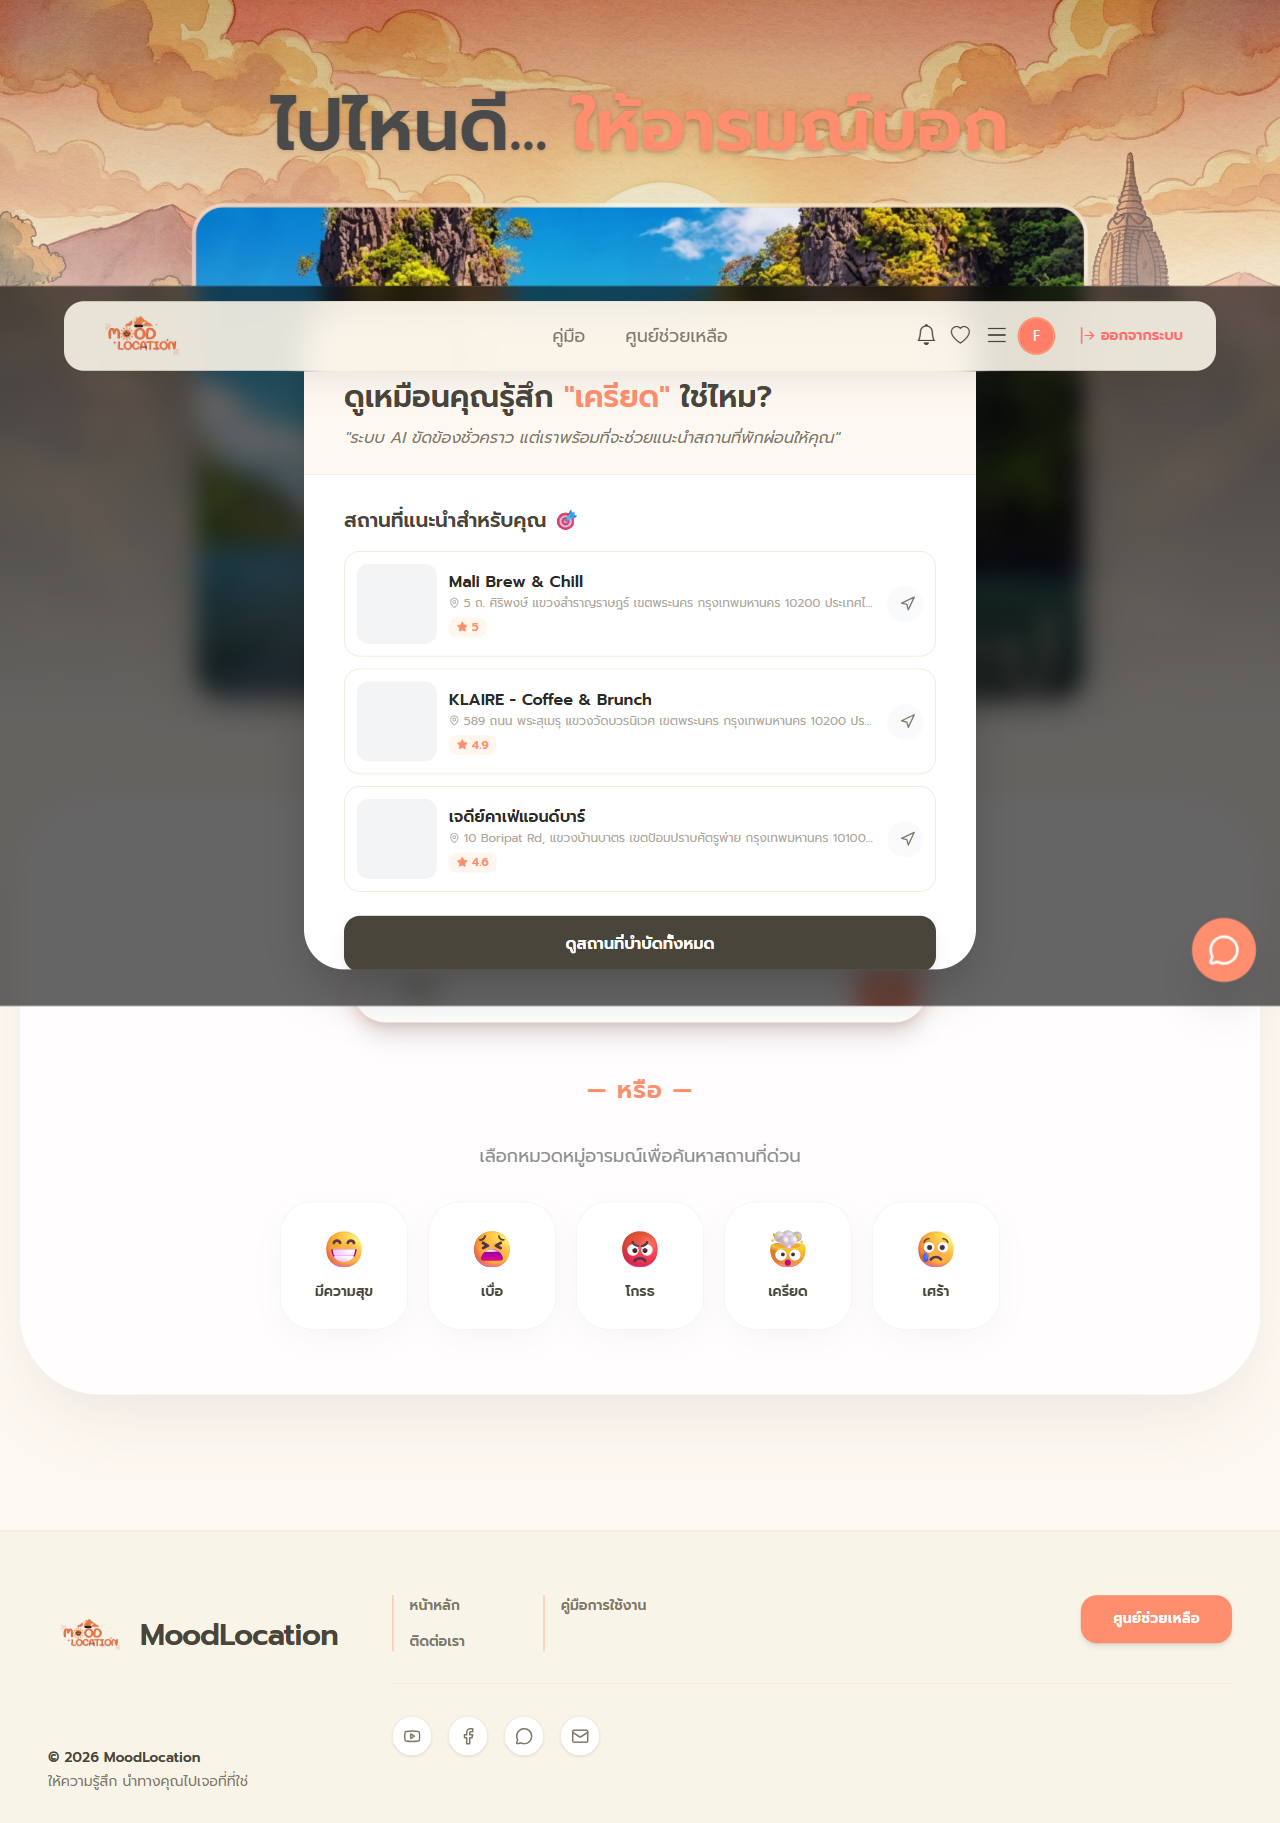
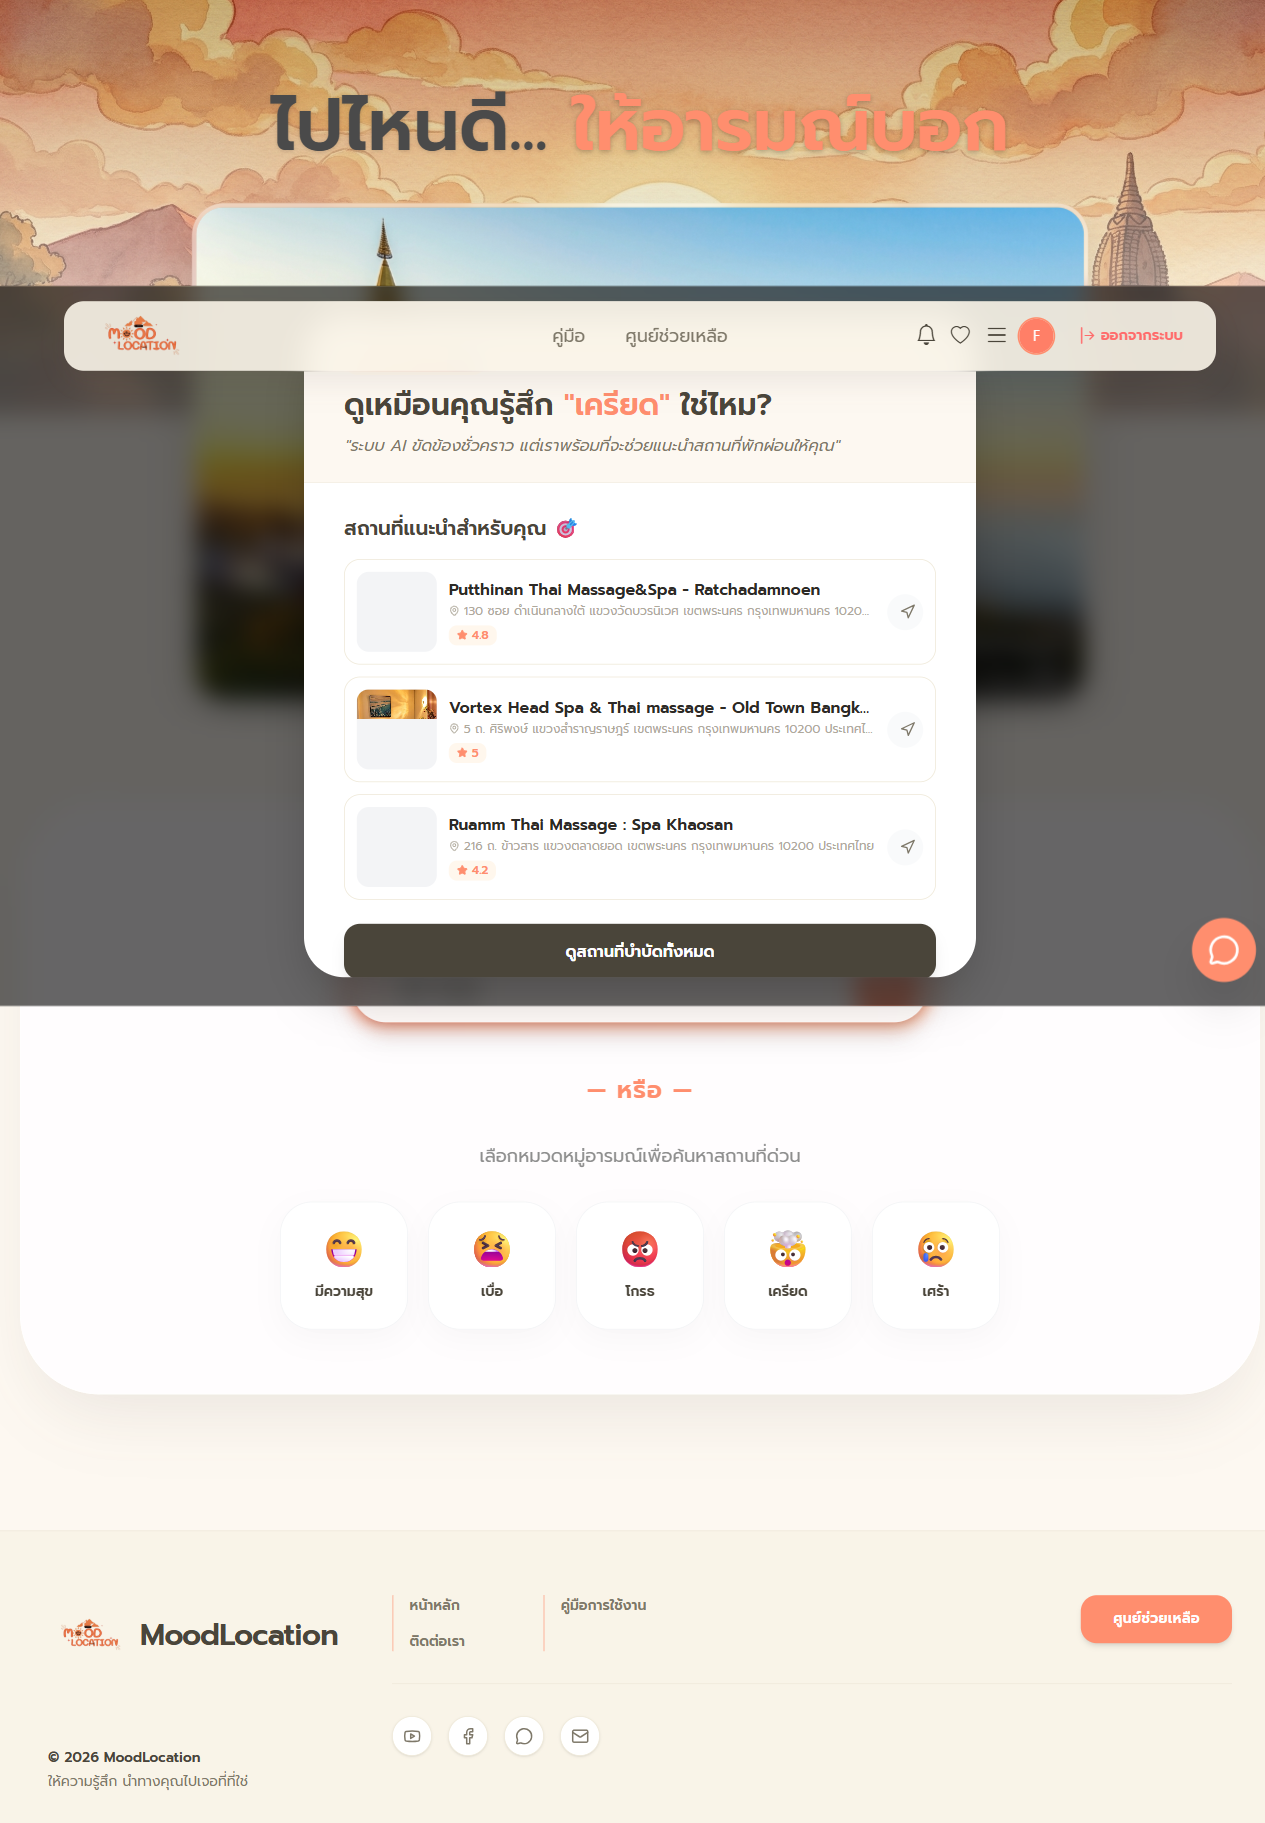
test401-406

diff --git a/src/tests/TC_4_0_005_EnglishText.spec.js b/src/tests/TC_4_0_005_EnglishText.spec.js
@@ -1,0 +1,82 @@
+require('../Hooks/testResultHook');
+const { test, expect } = require('@playwright/test');
+
+test.setTimeout(120000);
+
+test('TC 4.0.001 - วิเคราะห์อารมณ์จากข้อความสำเร็จ', async ({ browser }) => {
+
+  console.log('=== Start Test ===');
+
+  const context = await browser.newContext({
+    permissions: ['geolocation'],
+    geolocation: {
+      latitude: 13.7563,
+      longitude: 100.5018
+    },
+  });
+
+  const page = await context.newPage();
+
+  // Login
+  await page.goto('https://moodlocation.vercel.app/login');
+
+  console.log('Login page loaded');
+
+  await page.getByPlaceholder('[email redacted]')
+    .fill('[email redacted]');
+
+  await page.locator('input[type="password"]')
+    .fill('111111');
+
+  await page.click('button[type="submit"]');
+
+  console.log('Login button clicked');
+
+  await page.waitForLoadState('networkidle');
+
+  console.log('Login success');
+
+  // Textbox AI
+test.setTimeout(120000);
+
+const aiInput = page.getByRole('textbox', {
+  name: 'พิมพ์บอกความรู้สึกกับ AI...'
+});
+
+await expect(aiInput).toBeVisible();
+
+await aiInput.fill("I'm so hungry today.");
+  await expect(aiInput)
+    .toHaveValue("I'm so hungry today.");
+
+
+const searchBtn = page.getByRole('button', {
+  name: /ค้นหา/i
+});
+
+await expect(searchBtn).toBeVisible();
+
+await searchBtn.click();
+
+const placeNavigationBtns =
+  page.locator('.w-9.h-9.rounded-full.bg-gray-50');
+
+await expect(
+  placeNavigationBtns.first()
+).toBeVisible({
+  timeout: 90000
+});
+  console.log('Place card loaded');
+
+  // Screenshot
+  await page.screenshot({
+    path: 'evidence/TC_4_0_005_EnglishText.png',
+    fullPage: true
+  });
+
+  console.log('Screenshot saved');
+
+  await context.close();
+
+  console.log('=== Test Finished ===');
+});

diff --git a/src/tests/TC_3_0_003_HappyEmotion.spec.js b/src/tests/TC_3_0_003_HappyEmotion.spec.js
@@ -1,0 +1,35 @@
+require('../Hooks/testResultHook');
+const { test, expect } = require('@playwright/test');
+
+test('TC 3.0.003 - เลือกความรู้สึกมีความสุขสำเร็จ', async ({ page }) => {
+  await page.goto('https://moodlocation.vercel.app/login');
+
+  await page.getByPlaceholder('[email redacted]')
+    .fill('[email redacted]');
+
+  await page.locator('input[type="password"]')
+    .fill('111111');
+
+  await page.click('button[type="submit"]');
+
+  await page.waitForLoadState('networkidle');
+
+  await page.locator('button')
+    .filter({ hasText: 'มีความสุข' })
+    .filter({ visible: true })
+    .first()
+    .click();
+
+  // ตรวจสอบว่าหมวดหมู่ที่เกี่ยวข้องถูกแสดง
+  await expect(page.getByText('สวนสนุก')).toBeVisible();
+  await expect(page.getByText('งาน Event')).toBeVisible();
+  
+await page.evaluate(() => {
+  window.scrollTo(0, 0);
+});
+
+await page.screenshot({
+  path: 'evidence/TC_3_0_003_HappyEmotion.png',
+  fullPage: true
+});
+});

diff --git a/src/tests/TC_3_0_001_SadEmotion.spec.js b/src/tests/TC_3_0_001_SadEmotion.spec.js
@@ -1,0 +1,33 @@
+require('../Hooks/testResultHook');
+const { test, expect } = require('@playwright/test');
+
+test('TC 3.0.001 - เลือกความรู้สึกเศร้าสำเร็จ', async ({ page }) => {
+  await page.goto('https://moodlocation.vercel.app/login');
+  await page.getByPlaceholder('[email redacted]').fill('[email redacted]');
+  await page.locator('input[type="password"]').fill('111111');
+  await page.click('button[type="submit"]');
+
+  // รอ networkidle เพื่อให้มั่นใจว่า API โหลดข้อมูลอารมณ์มาครบก่อนเริ่มกด
+  await page.waitForLoadState('networkidle');
+
+  await page.locator('button')
+    .filter({ hasText: 'เศร้า' })
+    .filter({ visible: true })
+    .first()
+    .click();
+
+  // ตรวจสอบว่าหมวดหมู่ที่เกี่ยวข้องถูกแสดง
+  await expect(page.getByText('สวนสาธารณะ')).toBeVisible();
+  await expect(page.getByText('ร้านหนังสือ')).toBeVisible();
+  await expect(page.getByText('หอศิลป์')).toBeVisible();
+  
+  
+await page.evaluate(() => {
+  window.scrollTo(0, 0);
+});
+
+await page.screenshot({
+  path: 'evidence/TC_3_0_001_SadEmotion.png',
+  fullPage: true
+});
+});

diff --git a/src/tests/TC_3_0_005_StressEmotion.spec.js b/src/tests/TC_3_0_005_StressEmotion.spec.js
@@ -1,0 +1,33 @@
+require('../Hooks/testResultHook');
+const { test, expect } = require('@playwright/test');
+
+test('TC 3.0.005 - เลือกความรู้สึกเครียดสำเร็จ', async ({ page }) => {
+  await page.goto('https://moodlocation.vercel.app/login');
+  await page.getByPlaceholder('[email redacted]').fill('[email redacted]');
+  await page.locator('input[type="password"]').fill('111111');
+  await page.click('button[type="submit"]');
+
+  // รอ networkidle เพื่อให้มั่นใจว่า API โหลดข้อมูลอารมณ์มาครบก่อนเริ่มกด
+  await page.waitForLoadState('networkidle');
+
+  await page.locator('button')
+    .filter({ hasText: 'เครียด' })
+    .filter({ visible: true })
+    .first()
+    .click();
+
+  // ตรวจสอบว่าหมวดหมู่ที่เกี่ยวข้องถูกแสดง
+  await expect(page.getByText('สปาและนวด')).toBeVisible();
+  await expect(page.getByText('คาเฟ่สงบๆ')).toBeVisible();
+   await expect(page.getByText('สวนพฤกษศาสตร์')).toBeVisible();
+  
+
+await page.evaluate(() => {
+  window.scrollTo(0, 0);
+});
+
+await page.screenshot({
+  path: 'evidence/TC_3_0_005_StressEmotion.png',
+  fullPage: true
+});
+});

diff --git a/src/tests/TC_3_0_002_BoredEmotion.spec.js b/src/tests/TC_3_0_002_BoredEmotion.spec.js
@@ -1,0 +1,32 @@
+require('../Hooks/testResultHook');
+const { test, expect } = require('@playwright/test');
+
+test('TC 3.0.002 - เลือกความรู้สึกเบื่อสำเร็จ', async ({ page }) => {
+  await page.goto('https://moodlocation.vercel.app/login');
+  await page.getByPlaceholder('[email redacted]').fill('[email redacted]');
+  await page.locator('input[type="password"]').fill('111111');
+  await page.click('button[type="submit"]');
+
+  await page.waitForLoadState('networkidle');
+
+  await page.locator('button')
+    .filter({ hasText: 'เบื่อ' })
+    .filter({ visible: true })
+    .first()
+    .click();
+
+  // ตรวจสอบว่าหมวดหมู่ที่เกี่ยวข้องถูกแสดง
+  await expect(page.getByText('พิพิธภัณฑ์')).toBeVisible();
+  await expect(page.getByText('ห้างสรรพสินค้า')).toBeVisible();
+   await expect(page.getByText('บอร์ดเกมคาเฟ่')).toBeVisible();
+  
+  
+await page.evaluate(() => {
+  window.scrollTo(0, 0);
+});
+
+await page.screenshot({
+  path: 'evidence/TC_3_0_002_BoredEmotion.png',
+  fullPage: true
+});
+});

diff --git a/src/tests/TC_3_0_004_AngryEmotion.spec.js b/src/tests/TC_3_0_004_AngryEmotion.spec.js
@@ -1,0 +1,32 @@
+require('../Hooks/testResultHook');
+const { test, expect } = require('@playwright/test');
+
+test('TC 3.0.004 - เลือกความรู้สึกโกรธสำเร็จ', async ({ page }) => {
+  await page.goto('https://moodlocation.vercel.app/login');
+  await page.getByPlaceholder('[email redacted]').fill('[email redacted]');
+  await page.locator('input[type="password"]').fill('111111');
+  await page.click('button[type="submit"]');
+
+  // รอ networkidle เพื่อให้มั่นใจว่า API โหลดข้อมูลอารมณ์มาครบก่อนเริ่มกด
+  await page.waitForLoadState('networkidle');
+
+  await page.locator('button')
+    .filter({ hasText: 'โกรธ' })
+    .filter({ visible: true })
+    .first()
+    .click();
+
+  // ตรวจสอบว่าหมวดหมู่ที่เกี่ยวข้องถูกแสดง
+  await expect(page.getByText('ยิมออกกำลังกาย')).toBeVisible();
+  await expect(page.getByText('ค่ายมวย')).toBeVisible();
+  await expect(page.getByText('สนามกีฬา')).toBeVisible();
+  
+await page.evaluate(() => {
+  window.scrollTo(0, 0);
+});
+
+await page.screenshot({
+  path: 'evidence/TC_3_0_004_AngryEmotion.png',
+  fullPage: true
+});
+});